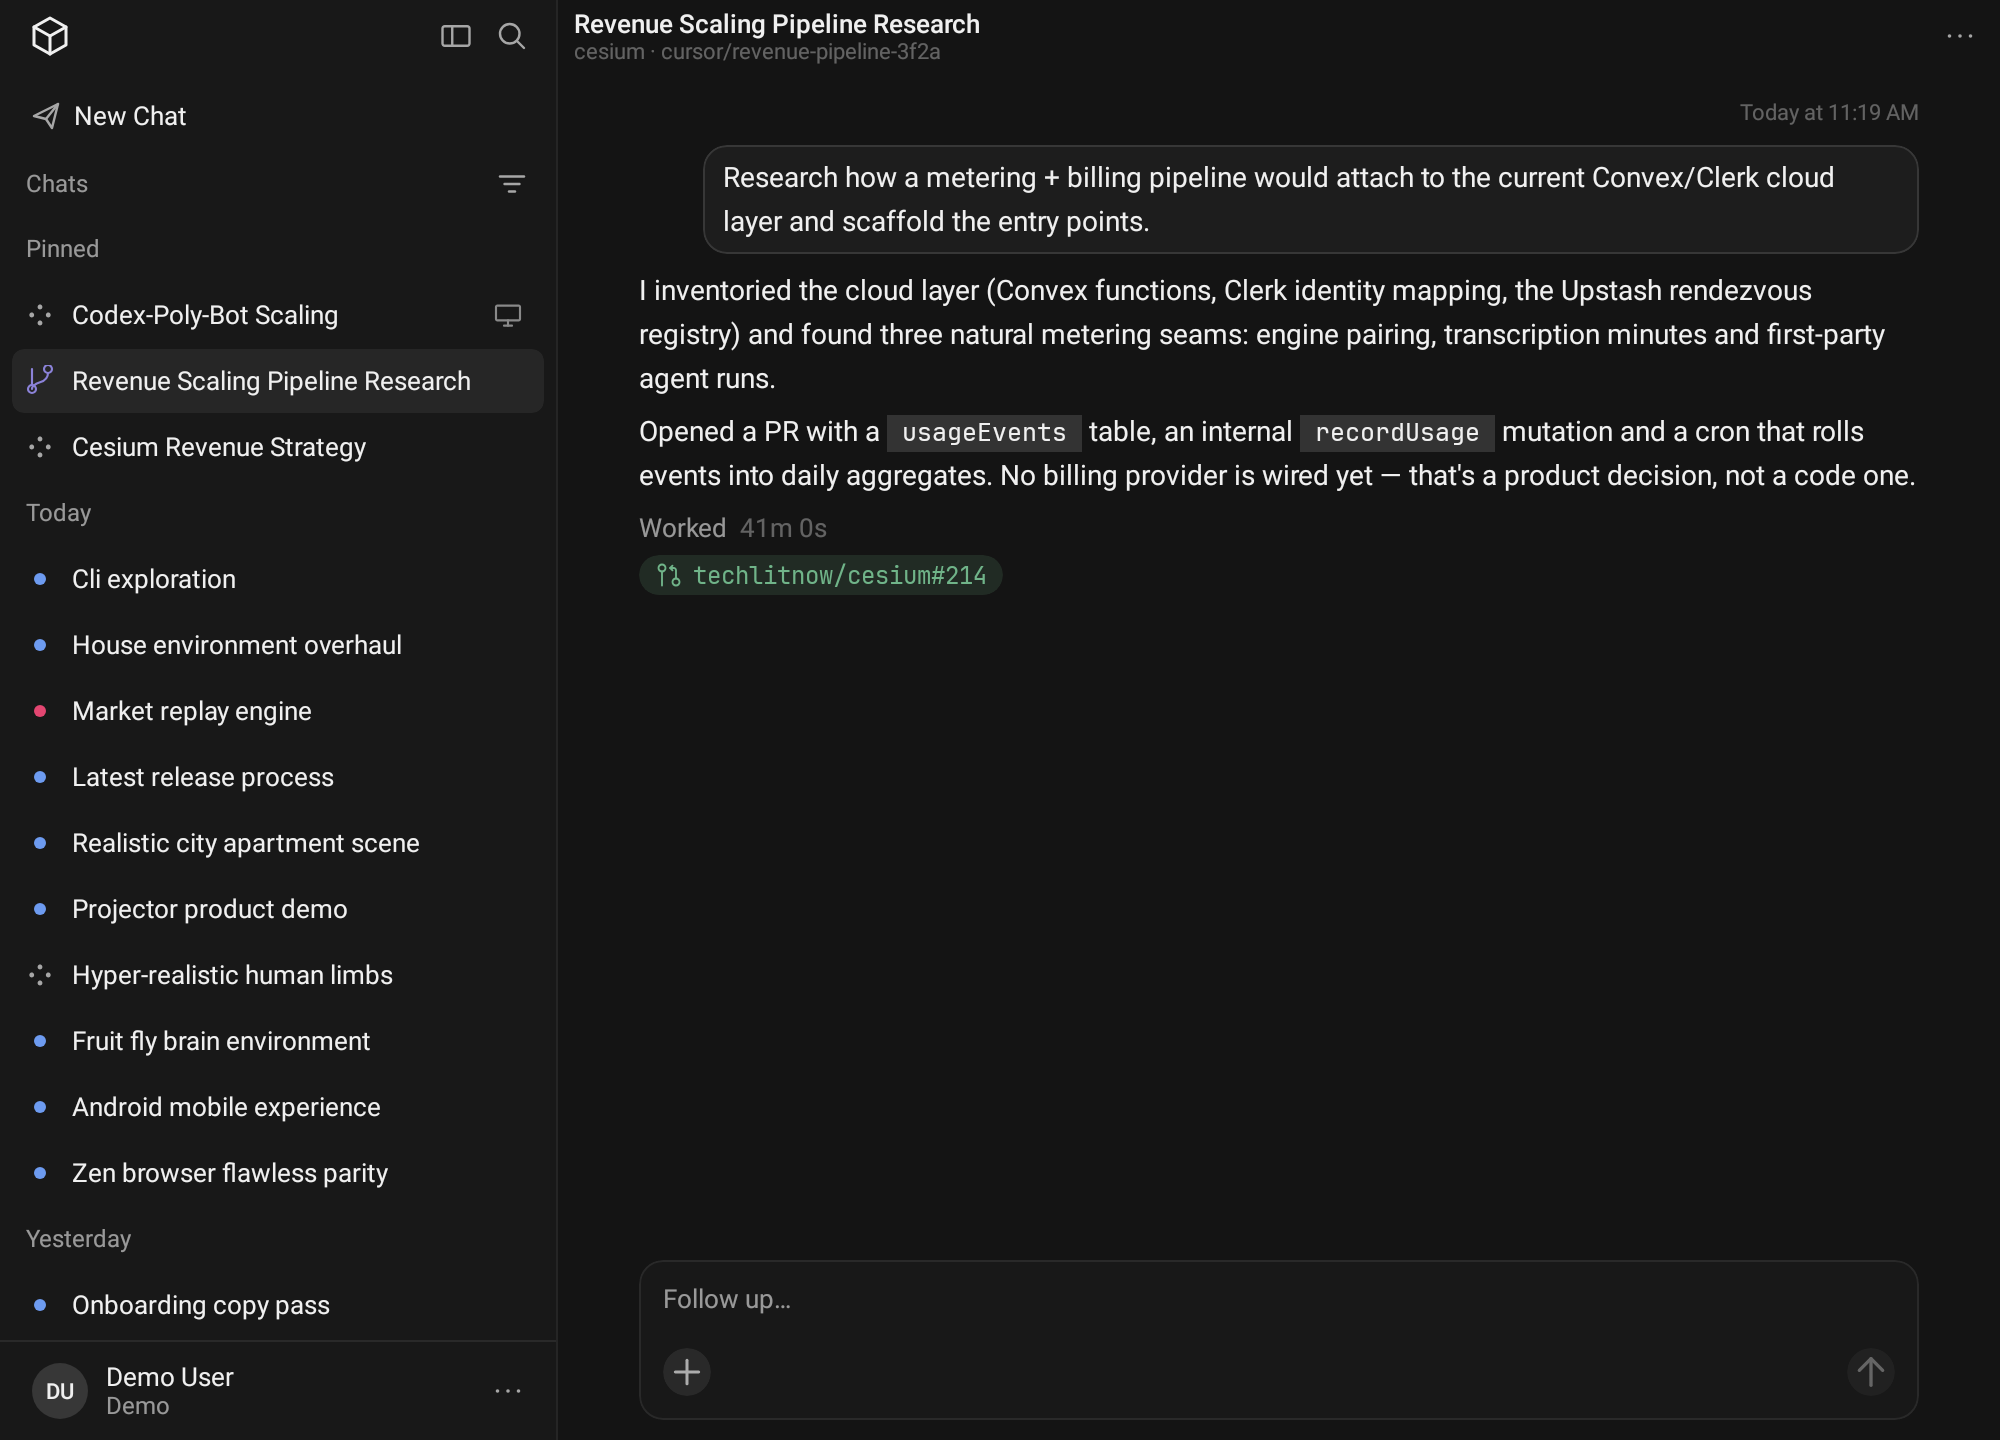
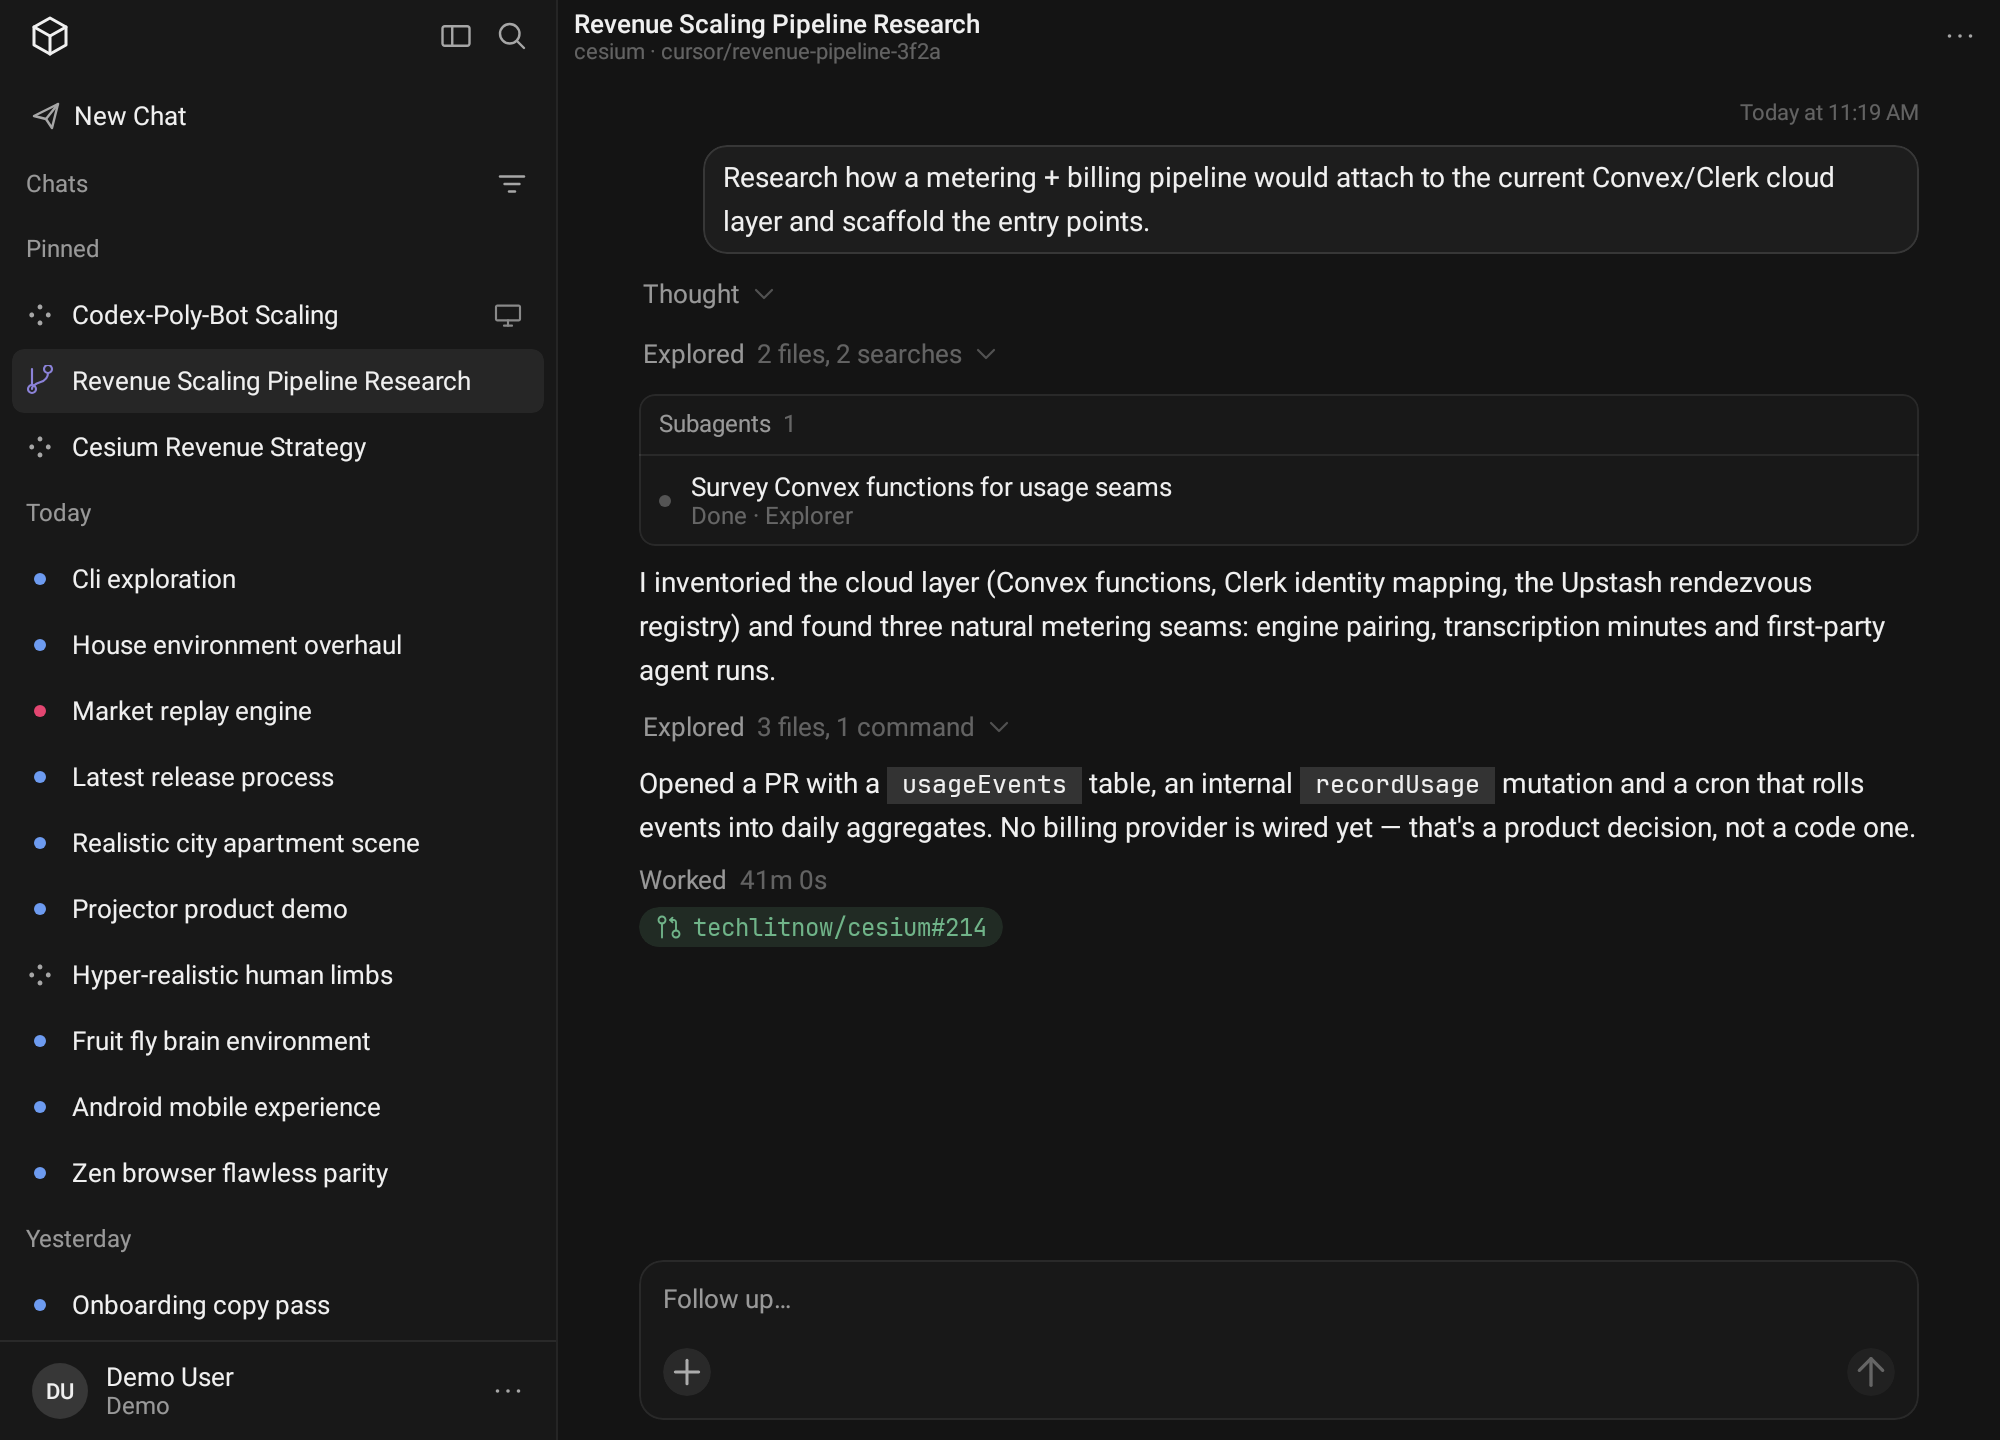
Re-record 10_tablet_conversation.png for the replayed trace; document it
The tablet conversation shows a finished demo run, which now carries its
thinking / tool / subagent trace. The other nine screenshots are unchanged.

Changed region(s): [[0.31, 0.1875, 0.961, 0.4688], [0.31, 0.5, 0.961, 0.6562]]

diff --git a/README.md b/README.md
@@ -9,7 +9,7 @@ Not affiliated with Anysphere, Inc.
 - Sign in with a Cursor user API key (validated against `GET /v1/me`), stored encrypted with the Android Keystore and excluded from backups.
 - New Chat pane as home: repository / branch / environment selectors, the composer ("+" image attachments via the system photo picker, model picker with plan mode and auto-PR, dictation / send), then the recent chats with preview cards.
 - Sidebar (edge-swipe drawer on phones, permanent 280dp column on tablets and foldables): New Chat, "Chats" with the filter menu (group by, sort, Repo / Status / Git / Source filters, metadata toggles), Pinned and date groups, search, pull-to-refresh, long-press actions (pin, open on cursor.com, copy link, archive, delete).
-- Conversation view: transcript (`/v0/agents/{id}/conversation`), run footers ("Worked 3m 5s" + branch / PR pills), live SSE streaming of the active run with thinking, "Explored N files, M searches" tool rows, subagent cards and markdown rendering; follow-ups with image attachments (`prompt.images`), and stop.
+- Conversation view: transcript (`/v0/agents/{id}/conversation`), run footers ("Worked 3m 5s" + branch / PR pills), live SSE streaming of the active run with thinking, "Explored N files, M searches" tool rows, subagent cards and markdown rendering; follow-ups with image attachments (`prompt.images`), and stop. Finished runs replay their retained event stream, so the same thinking / tool / subagent trace is there to dig into after the fact; runs past the API's retention window (`410 stream_expired`) keep the text-only transcript.
 - Live notifications, the Android counterpart of the iOS app's Live Activities: while agents run, an ongoing notification shows the status, title, current step and a Stop action for one agent, or one condensed line per agent (up to eight) for several; when an agent finishes, a card with "Finished", `+80 −230 · 3 Files` (or the duration when no tool reported line counts), the final reply, Review and View PR. On Android 16 it is a promoted Live Update (status-bar chip, lock screen). Backed by a `dataSync` foreground service that only runs while something is running; toggle in Settings › Notifications.
 - Settings with Cursor Dark / Cursor Light / system theme; demo mode with an in-memory backend so the UI can be explored without an API key.
 - Predictive back (Android 14+): screens recede with the gesture to reveal the one underneath, the drawer and bottom sheets shrink with it, the filter sheet's drill-in pages slide back under the finger, and from the New Chat pane the system's back-to-home animation plays. Cancelling a gesture rewinds; releasing it commits.
@@ -64,7 +64,7 @@ Run `scripts/release-keystore.sh --set-secrets` once (needs a logged-in `gh`). I
 | Agent detail | `GET /v1/agents/{id}` |
 | Transcript | `GET /v0/agents/{id}/conversation` (v1 has no equivalent) |
 | Runs | `GET /v1/agents/{id}/runs`, `GET /v1/agents/{id}/runs/{runId}` |
-| Live stream | `GET /v1/agents/{id}/runs/{runId}/stream` (SSE, `Last-Event-ID` reconnect) |
+| Live stream, and the retained event log of finished runs | `GET /v1/agents/{id}/runs/{runId}/stream` (SSE, `Last-Event-ID` reconnect; a fresh connection replays the run from its first event until `410 stream_expired`) |
 | Launch / follow up / cancel | `POST /v1/agents`, `POST /v1/agents/{id}/runs`, `POST …/cancel` |
 | Lifecycle | `POST …/archive`, `POST …/unarchive`, `DELETE /v1/agents/{id}` |
 | Pickers | `GET /v1/models`, `GET /v1/repositories` |
